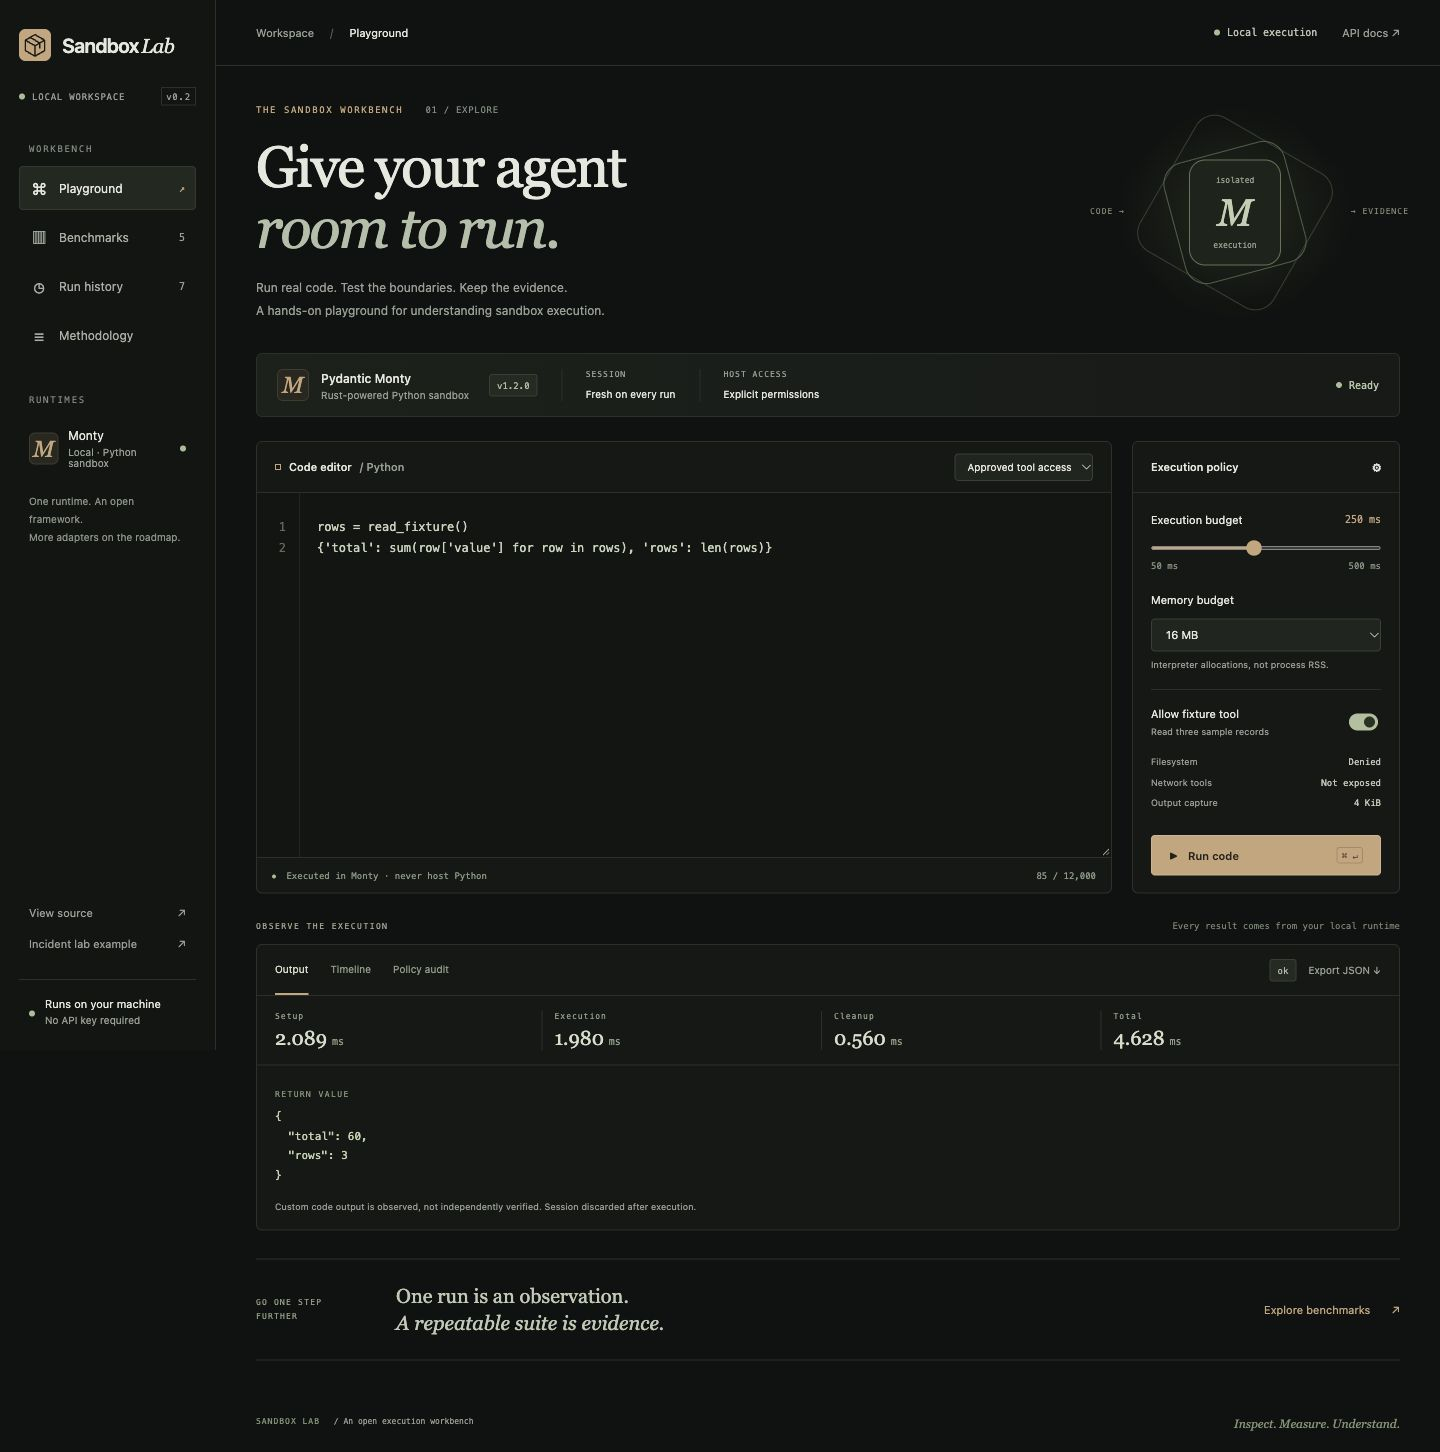
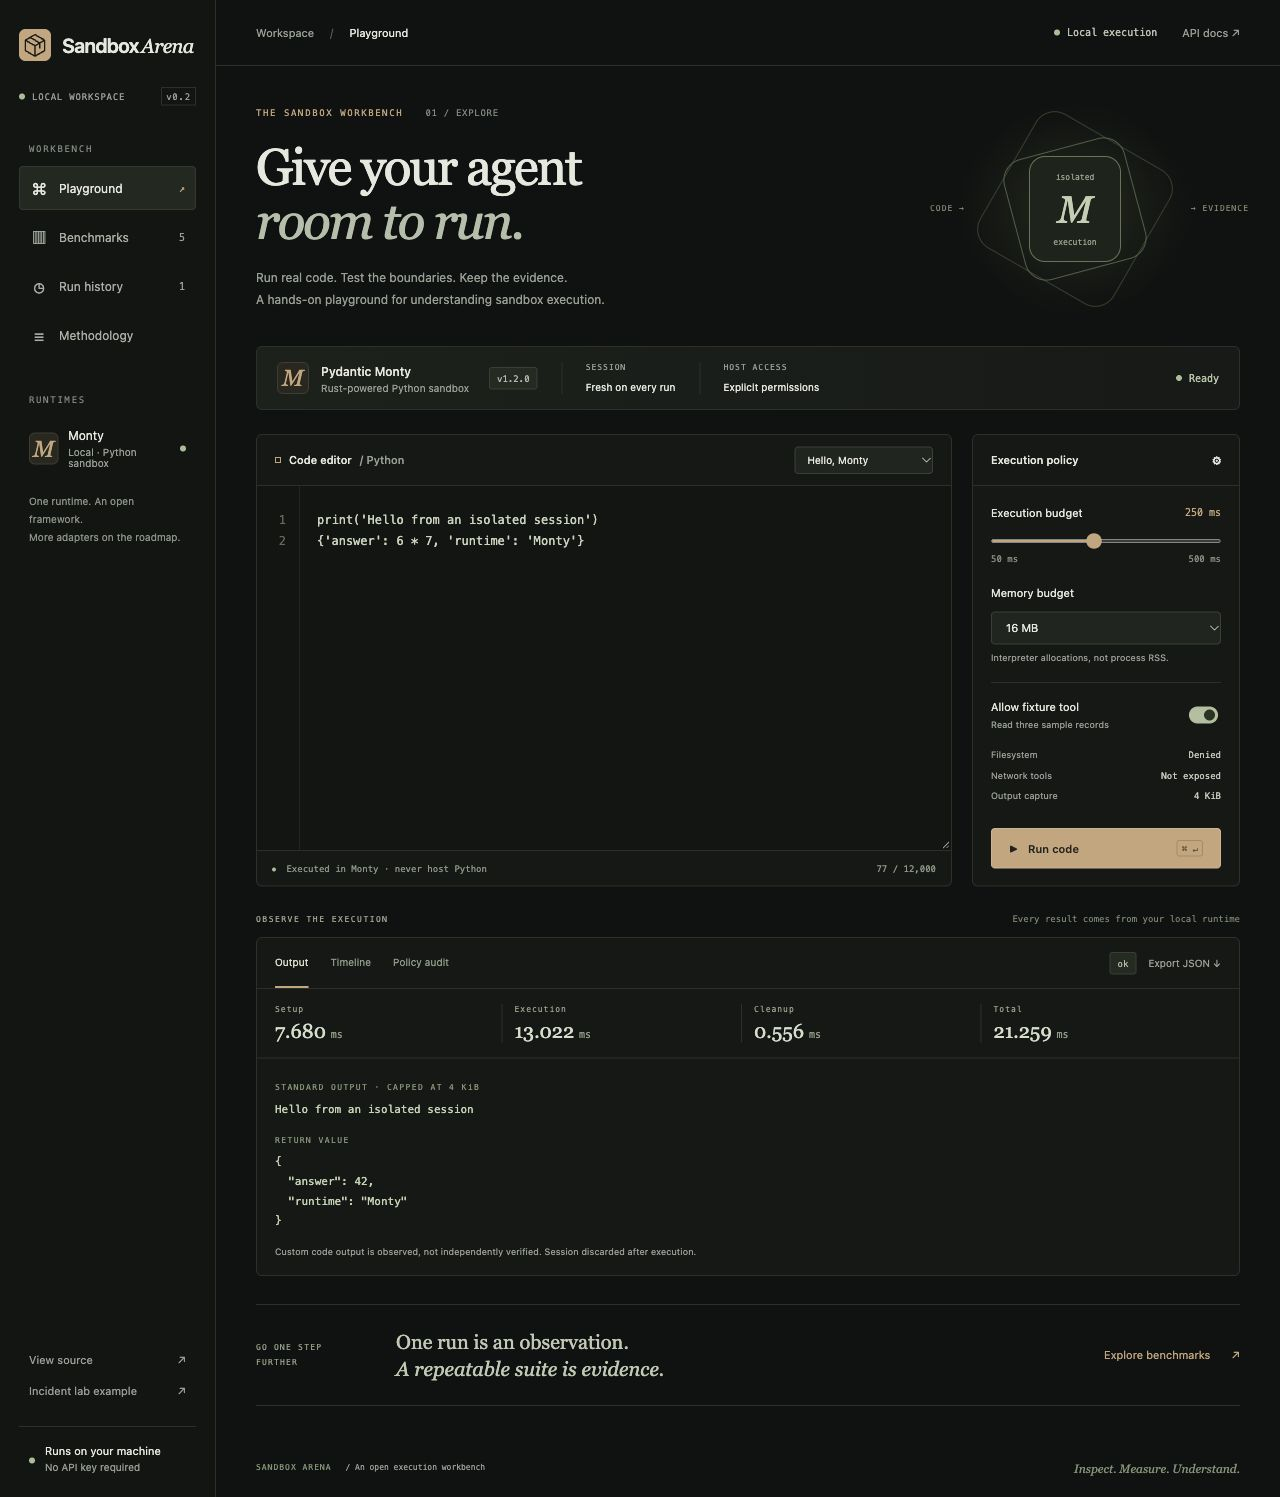
feat: establish Sandbox Arena as a standalone public workbench

diff --git a/src/sandbox_arena/static/playground.js b/src/sandbox_arena/static/playground.js
@@ -68,7 +68,7 @@ function navigate() {
     else el.removeAttribute("aria-current");
   });
   $("breadcrumb").textContent = names[view];
-  document.title = `${names[view]} · Sandbox Lab`;
+  document.title = `${names[view]} · Sandbox Arena`;
   if (view === "history")
     refreshHistory().catch((error) => toast(error.message));
   updatePolicy();
@@ -86,7 +86,7 @@ function editorChanged() {
     state.catalog?.examples.find((example) => example.code === code)?.id ||
     "custom";
   try {
-    localStorage.setItem("sandbox-lab-draft", code);
+    localStorage.setItem("sandbox-arena-draft", code);
   } catch {
     /* Storage is optional. */
   }
@@ -307,7 +307,7 @@ function renderBenchmarks() {
   $("benchmark-list").innerHTML = state.catalog.benchmarks
     .map(
       (workload) =>
-        `<article class="benchmark-card"><input type="checkbox" id="benchmark-${escape(workload.id)}" data-workload="${escape(workload.id)}" ${state.selected.has(workload.id) ? "checked" : ""}><div><label for="benchmark-${escape(workload.id)}"><h2>${escape(workload.name)}</h2></label><p>${escape(workload.description)}</p><details><summary>Inspect workload & provenance</summary><pre>${escape(workload.code)}</pre><p>Version ${escape(workload.version)} · Expected outcome: ${escape(workload.expected_status)}${workload.source ? `<br>Adapted from <a href="${escape(workload.source)}" target="_blank" rel="noreferrer">pinned upstream source ↗</a>. Timer wrappers removed; structured results added. Apache-2.0.` : "<br>Authored for Sandbox Lab."}</p></details></div><span class="category">${escape(workload.category)}</span></article>`,
+        `<article class="benchmark-card"><input type="checkbox" id="benchmark-${escape(workload.id)}" data-workload="${escape(workload.id)}" ${state.selected.has(workload.id) ? "checked" : ""}><div><label for="benchmark-${escape(workload.id)}"><h2>${escape(workload.name)}</h2></label><p>${escape(workload.description)}</p><details><summary>Inspect workload & provenance</summary><pre>${escape(workload.code)}</pre><p>Version ${escape(workload.version)} · Expected outcome: ${escape(workload.expected_status)}${workload.source ? `<br>Adapted from <a href="${escape(workload.source)}" target="_blank" rel="noreferrer">pinned upstream source ↗</a>. Timer wrappers removed; structured results added. Apache-2.0.` : "<br>Authored for Sandbox Arena."}</p></details></div><span class="category">${escape(workload.category)}</span></article>`,
     )
     .join("");
   document.querySelectorAll("[data-workload]").forEach((input) =>
@@ -419,7 +419,7 @@ async function init() {
         .join("");
     let draft;
     try {
-      draft = localStorage.getItem("sandbox-lab-draft");
+      draft = localStorage.getItem("sandbox-arena-draft");
     } catch {
       /* Storage is optional. */
     }

diff --git a/src/sandbox_arena/static/playground.html b/src/sandbox_arena/static/playground.html
@@ -3,7 +3,7 @@
   <head>
     <meta charset="utf-8" />
     <meta name="viewport" content="width=device-width, initial-scale=1" />
-    <title>Sandbox Lab · A place to put execution to the test</title>
+    <title>Sandbox Arena · A place to put execution to the test</title>
     <link rel="icon" href="/static/mark.svg" type="image/svg+xml" />
     <link rel="stylesheet" href="/static/playground.css" />
     <script src="/static/playground.js" type="module"></script>
@@ -13,7 +13,7 @@
     <aside class="sidebar">
       <a class="brand" href="#playground"
         ><img src="/static/mark.svg" width="32" height="32" alt="" /><span
-          >Sandbox<span class="brand-serif">Lab</span></span
+          >Sandbox<span class="brand-serif">Arena</span></span
         ></a
       >
       <div class="workspace-label">
@@ -49,7 +49,7 @@
       </div>
       <div class="sidebar-bottom">
         <a
-          href="https://github.com/rudrakshkarpe/monty-incident-lab"
+          href="https://github.com/rudrakshkarpe/sandbox-arena"
           target="_blank"
           rel="noreferrer"
           >View source <span>↗</span></a
@@ -460,7 +460,7 @@
       </main>
       <footer class="footer">
         <span
-          >SANDBOX LAB
+          >SANDBOX ARENA
           <span class="muted">/ An open execution workbench</span></span
         ><span>Inspect. Measure. Understand.</span>
       </footer>

diff --git a/src/sandbox_arena/static/api.html b/src/sandbox_arena/static/api.html
@@ -3,14 +3,14 @@
   <head>
     <meta charset="utf-8" />
     <meta name="viewport" content="width=device-width,initial-scale=1" />
-    <title>Execution API · Sandbox Lab</title>
+    <title>Execution API · Sandbox Arena</title>
     <link rel="icon" href="/static/mark.svg" />
     <link rel="stylesheet" href="/static/playground.css" />
   </head>
   <body>
     <main>
       <div class="topbar">
-        <a href="/">← Sandbox Lab</a
+        <a href="/">← Sandbox Arena</a
         ><a href="/openapi.json">OpenAPI schema ↗</a>
       </div>
       <div class="page-intro">

diff --git a/src/sandbox_arena/cli.py b/src/sandbox_arena/cli.py
@@ -15,11 +15,11 @@ from .telemetry import configure
 
 
 def main():
-    parser = argparse.ArgumentParser(description='Investigate inference evidence with Monty.')
+    parser = argparse.ArgumentParser(description='Run the Sandbox Arena workbench and Monty examples.')
     parser.add_argument('--export-logfire', action='store_true', help='Explicitly export traces using LOGFIRE_TOKEN')
     parser.add_argument('--traces', type=Path, default=Path('artifacts/traces.jsonl'))
     commands = parser.add_subparsers(dest='command', required=True)
-    serve = commands.add_parser('serve', help='Start the local demo UI')
+    serve = commands.add_parser('serve', help='Start the local sandbox workbench')
     serve.add_argument('--port', type=int, default=8022)
     evaluation = commands.add_parser('evaluate', help='Execute deterministic Pydantic Evals cases')
     evaluation.add_argument('--output', type=Path, default=Path('artifacts/evaluation.json'))

diff --git a/src/sandbox_arena/web.py b/src/sandbox_arena/web.py
@@ -30,7 +30,7 @@ def create_app(*, database: Path = Path('artifacts/playground.sqlite3')) -> Fast
             finally:
                 app.state.runner.close()
 
-    app = FastAPI(title='Sandbox Lab', version='0.2.0', lifespan=lifespan, docs_url=None, redoc_url=None)
+    app = FastAPI(title='Sandbox Arena', version='0.2.0', lifespan=lifespan, docs_url=None, redoc_url=None)
     app.include_router(router())
     app.add_middleware(TrustedHostMiddleware, allowed_hosts=['127.0.0.1', 'localhost', 'testserver'])
 
@@ -60,7 +60,7 @@ def create_app(*, database: Path = Path('artifacts/playground.sqlite3')) -> Fast
         )
         return response
 
-    static = files('monty_incident_lab').joinpath('static')
+    static = files('sandbox_arena').joinpath('static')
     app.mount('/static', StaticFiles(directory=str(static)), name='static')
 
     @app.get('/')

diff --git a/tests/test_execution.py b/tests/test_execution.py
@@ -2,12 +2,12 @@ import json
 
 import pytest
 
-from monty_incident_lab.cases import CASES
-from monty_incident_lab.evidence import CAPTURE_SHA256, EvidenceAccess, expected_analysis, verify_analysis
-from monty_incident_lab.models import RunRequest
-from monty_incident_lab.programs import ANALYSIS
-from monty_incident_lab.sandbox import execute
-from monty_incident_lab.service import run
+from sandbox_arena.cases import CASES
+from sandbox_arena.evidence import CAPTURE_SHA256, EvidenceAccess, expected_analysis, verify_analysis
+from sandbox_arena.models import RunRequest
+from sandbox_arena.programs import ANALYSIS
+from sandbox_arena.sandbox import execute
+from sandbox_arena.service import run
 
 
 @pytest.mark.parametrize('name,scenario,challenge,status,finding', CASES)

diff --git a/tests/test_agent.py b/tests/test_agent.py
@@ -1,8 +1,8 @@
 from pydantic_ai.messages import ModelResponse, ToolCallPart
 from pydantic_ai.models.function import FunctionModel
 
-from monty_incident_lab.agent import run_live
-from monty_incident_lab.programs import ANALYSIS
+from sandbox_arena.agent import run_live
+from sandbox_arena.programs import ANALYSIS
 
 
 def model_with_codes(codes):
@@ -35,7 +35,7 @@ def test_agent_does_not_retry_denied_capability(pool):
 def test_model_evaluation_reports_requests_and_mode(tmp_path):
     import json
 
-    from monty_incident_lab.evaluation import evaluate
+    from sandbox_arena.evaluation import evaluate
 
     path = tmp_path / 'evaluation.json'
     assert evaluate(path, model=model_with_codes([ANALYSIS] * 4))

diff --git a/src/sandbox_arena/evidence.py b/src/sandbox_arena/evidence.py
@@ -13,7 +13,7 @@ SOURCE_COMMIT = '79ef0f2456e64879bd2f41c90d1610a031191495'
 SOURCE_URL = (
     f'https://github.com/rudrakshkarpe/logfire-inference-lab/blob/{SOURCE_COMMIT}/docs/evidence/gemma4-h100-run.json'
 )
-CAPTURE_BYTES = files('monty_incident_lab').joinpath('data/capture.json').read_bytes()
+CAPTURE_BYTES = files('sandbox_arena').joinpath('data/capture.json').read_bytes()
 CAPTURE_SHA256 = hashlib.sha256(CAPTURE_BYTES).hexdigest()
 CAPTURE = json.loads(CAPTURE_BYTES)
 SCOPE = 'inference-lab'
